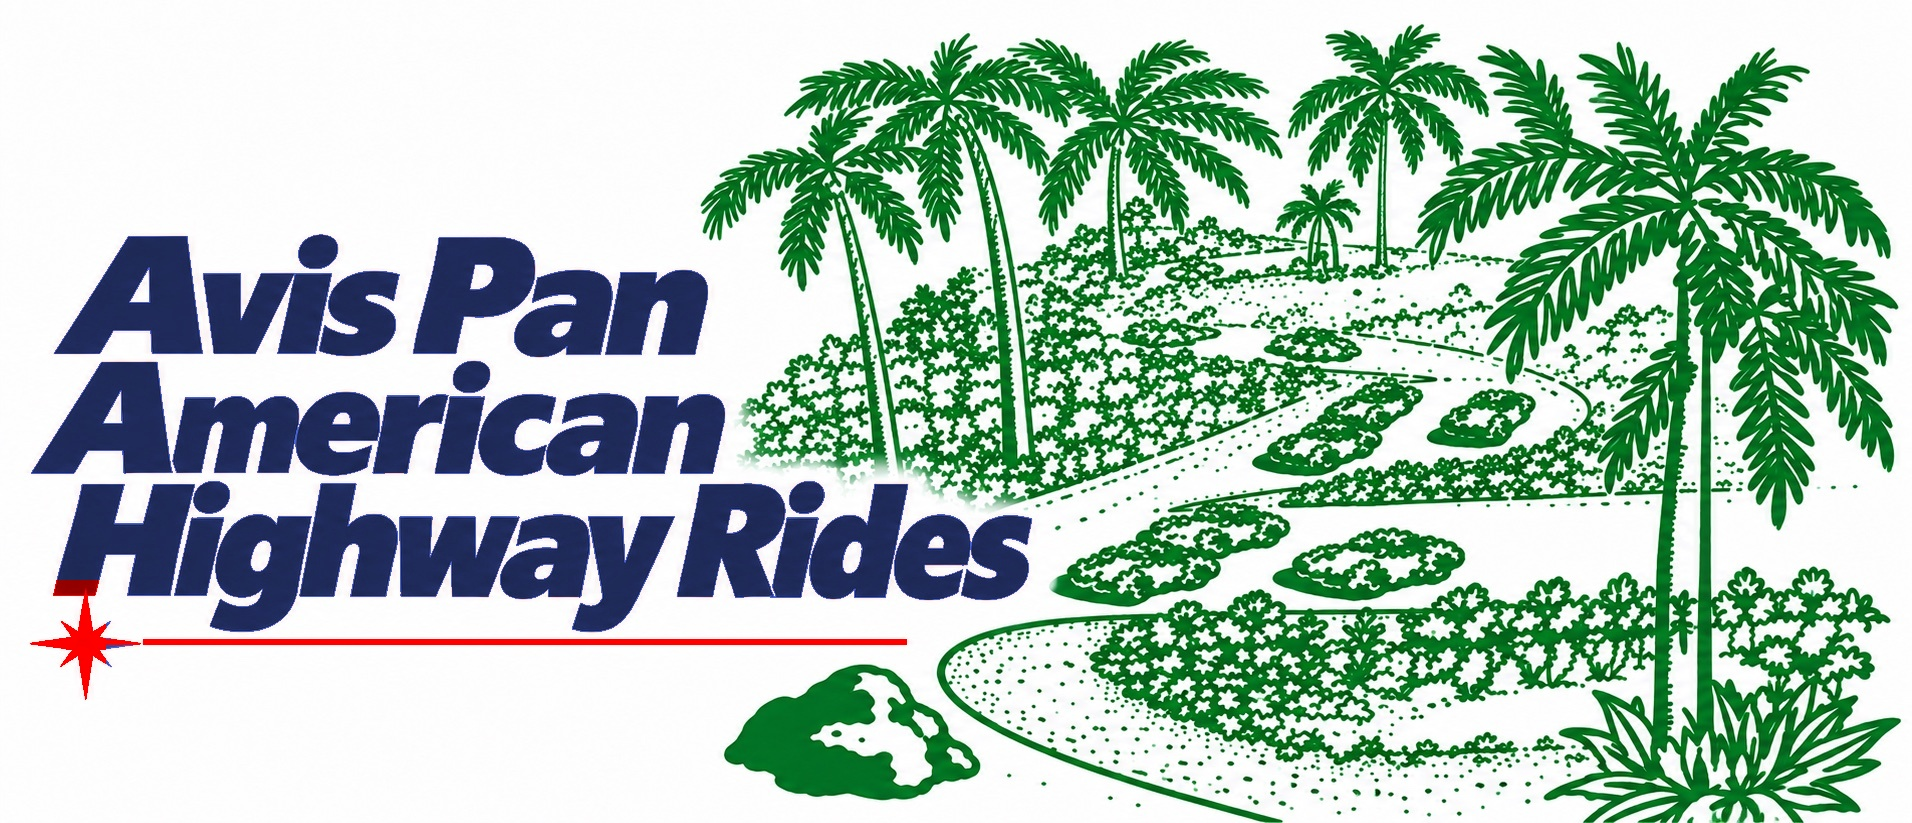
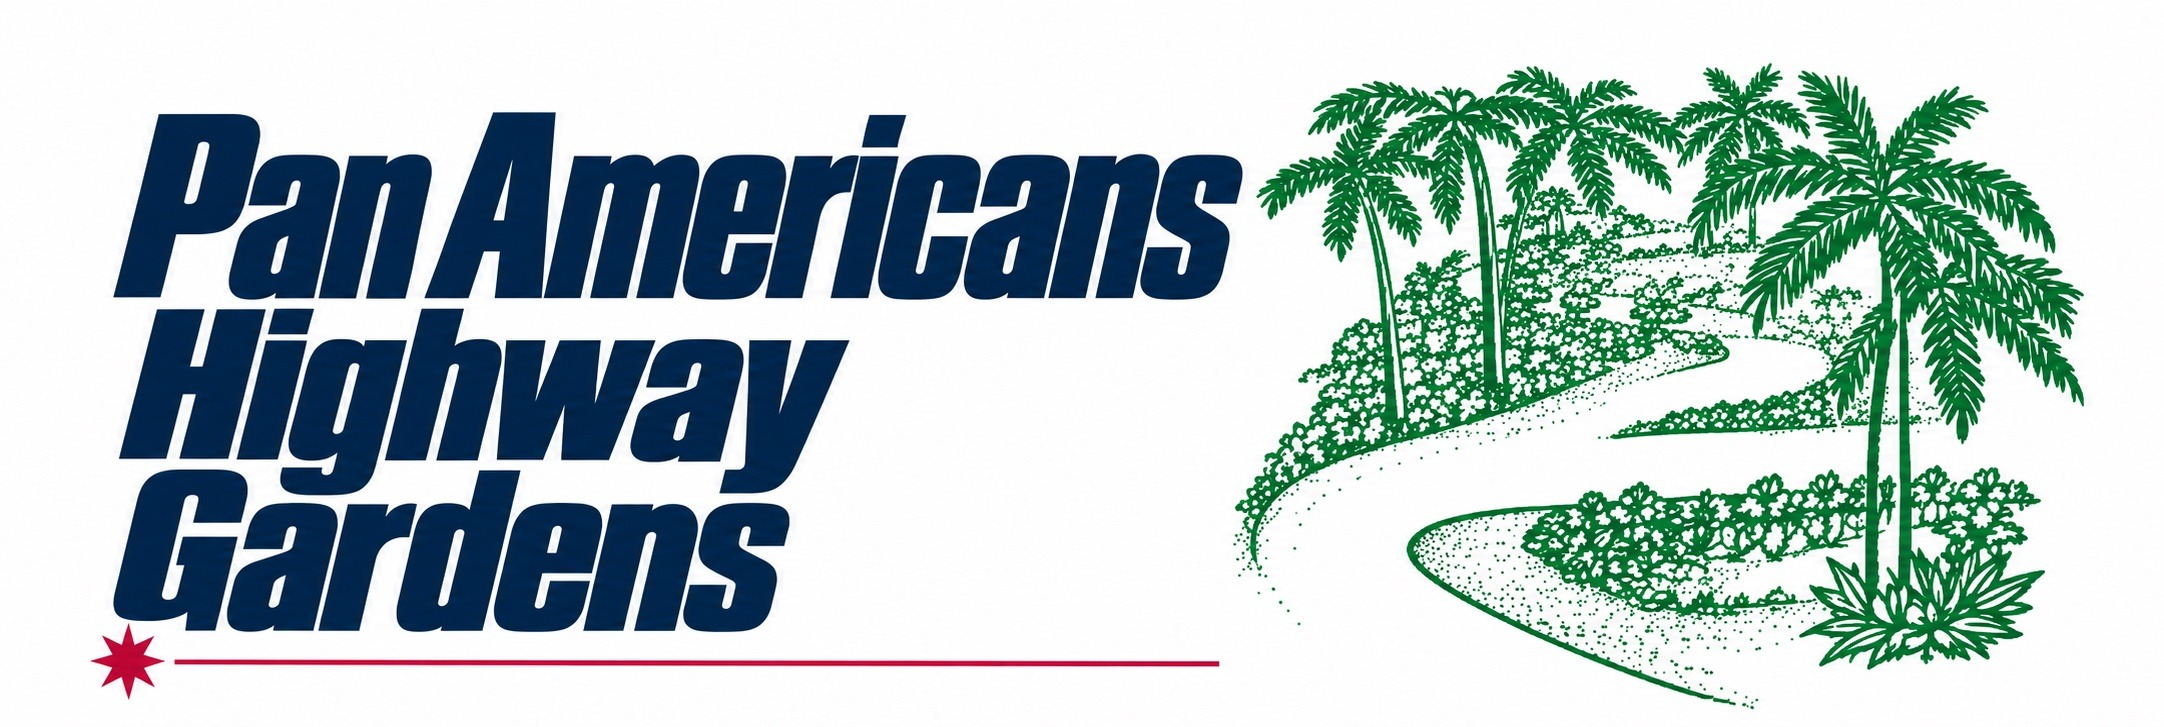
Add Pan American Highway Gardens overview, P card, and stubs
Create panamgoverview from the overview prototype with hero, body
copy, photo, and AttractionNav menu (Overview first). Add panama01–03
landing stubs and a P-page link card.

diff --git a/src/app/panamgoverview/page.tsx b/src/app/panamgoverview/page.tsx
@@ -7,28 +7,25 @@ import heroBottomBar from "@/styles/heroBottomBar.module.css";
 import overviewHeroStyles from "@/styles/overviewPageHero.module.css";
 
 export const metadata: Metadata = {
-  title: "Avis Pan American Highway Rides — Overview — nywf64.com",
+  title: "Pan American Highway Gardens — Overview — nywf64.com",
   description:
-    "Avis Pan American Highway Rides overview at the 1964/1965 New York World’s Fair — Attractions from A to Z on nywf64.com.",
+    "Pan American Highway Gardens overview at the 1964/1965 New York World’s Fair — Attractions from A to Z on nywf64.com.",
 };
 
 /**
- * Avis Pan American Highway Rides overview — follows the **overview** prototype
- * (same stack as /avisoverview / /autthroverview).
+ * Pan American Highway Gardens overview — follows the **overview** prototype
+ * (same stack as /alaskaoverview / /pakistoverview).
  */
 export default function PanamgOverviewPage() {
   return (
     <>
-      <section
-        className={styles.hero}
-        aria-label="Avis Pan American Highway Rides"
-      >
+      <section className={styles.hero} aria-label="Pan American Highway Gardens">
         <div className={`${overviewHeroStyles.frame} ${heroBottomBar.photoFrame}`}>
           <Image
             src="/images/panamgoverview/hero-banner.jpg"
-            alt="Avis Pan American Highway Rides at the 1964/1965 New York World’s Fair"
-            width={1912}
-            height={823}
+            alt="Pan American Highway Gardens at the 1964/1965 New York World’s Fair"
+            width={2164}
+            height={727}
             priority
             sizes="100vw"
             className={overviewHeroStyles.art}
@@ -41,23 +38,23 @@ export default function PanamgOverviewPage() {
 
       <section
         className={styles.overview}
-        aria-label="Avis Pan American Highway Rides overview"
+        aria-label="Pan American Highway Gardens overview"
       >
         <div className={styles.overviewInner}>
           <div className={styles.copy}>
             <p className={styles.sectionTitle}>OVERVIEW</p>
             <p className={styles.body}>
-              Visitors drive miniature cars along a &quot;transcontinental&quot;
-              road.
+              Fairgoers stroll past large paintings of scenes along the new Pan
+              American Highway through Latin America.
             </p>
           </div>
 
           <div className={styles.photoWrap}>
             <Image
               src="/images/panamgoverview/photo.jpg"
-              alt="Avis Pan American Highway Rides"
-              width={958}
-              height={776}
+              alt="Pan American Highway Gardens at the 1964/1965 New York World’s Fair"
+              width={1518}
+              height={1036}
               sizes="(max-width: 720px) 100vw, 48vw"
               className={styles.photo}
               unoptimized
@@ -69,7 +66,7 @@ export default function PanamgOverviewPage() {
       <Nav2Bar
         previousHref="/panamgoverview"
         overviewHref="/panamgoverview"
-        nextHref="/panamg01"
+        nextHref="/panama01"
       />
     </>
   );

diff --git a/src/components/PanamgTopicStub.tsx b/src/components/PanamgTopicStub.tsx
@@ -2,7 +2,7 @@ import Link from "next/link";
 import { PanamgNavChrome } from "@/components/PanamgNavChrome";
 import { Nav2Bar } from "@/components/Nav2Bar";
 
-/** Shared stub shell for panamg (Panama menu) topic landings. */
+/** Shared stub shell for panamg / panama menu topic landings. */
 export function PanamgTopicStub({ title }: { title: string }) {
   return (
     <>
@@ -17,21 +17,21 @@ export function PanamgTopicStub({ title }: { title: string }) {
       >
         <p style={{ margin: "0 0 1rem", fontSize: "0.9rem" }}>
           <Link href="/panamgoverview" style={{ color: "#990000" }}>
-            ← Avis Pan American Highway Rides overview
+            ← Pan American Highway Gardens overview
           </Link>
         </p>
         <h1 style={{ margin: 0, color: "#26346e", fontSize: "1.75rem" }}>
           {title}
         </h1>
         <p style={{ margin: "1rem 0 0", color: "#26346e", lineHeight: 1.5 }}>
-          Placeholder page — full Avis Pan American Highway Rides content will
+          Placeholder page — full Pan American Highway Gardens content will
           connect here.
         </p>
       </main>
       <Nav2Bar
         previousHref="/panamgoverview"
         overviewHref="/panamgoverview"
-        nextHref="/panamg01"
+        nextHref="/panama01"
       />
     </>
   );

diff --git a/src/data/panamgMenu.ts b/src/data/panamgMenu.ts
@@ -1,9 +1,9 @@
 import type { AttractionTopic } from "@/components/AttractionTopicsMenu";
 
 /**
- * Panama menu — nav-menu topics for all routes beginning with `panamg`.
- * Labels match the panama-menu-topics mockup; Overview at top.
- * Non-Overview routes: `panamg01`…`panamg03`.
+ * Pan American Highway Gardens menu — topics for `panamg*` / `panama*` routes.
+ * Labels match the panamg menu-topics mockup; Overview at top.
+ * Non-Overview routes: `panama01`…`panama03`.
  */
 export const PANAMG_MENU_TOPICS: AttractionTopic[] = [
   {
@@ -12,14 +12,14 @@ export const PANAMG_MENU_TOPICS: AttractionTopic[] = [
   },
   {
     label: "1964 & 1965 Official Guidebook & Souvenir Map",
-    href: "/panamg01",
+    href: "/panama01",
   },
   {
     label: "World's Fair Information Manual",
-    href: "/panamg02",
+    href: "/panama02",
   },
   {
     label: "Photograph Album",
-    href: "/panamg03",
+    href: "/panama03",
   },
 ];

diff --git a/src/components/PanamgNavChrome.tsx b/src/components/PanamgNavChrome.tsx
@@ -4,14 +4,14 @@ import { AttractionNavChrome } from "@/components/AttractionNavChrome";
 import { PANAMG_MENU_TOPICS } from "@/data/panamgMenu";
 
 /**
- * Panama menu chrome — nav bar (**AVIS PAN AMERICAN HIGHWAY RIDES**) + Panama menu.
- * Use on every page whose route begins with `panamg`.
+ * Pan American Highway Gardens menu chrome — nav bar + shared menu.
+ * Use on `panamgoverview` and `panama01`…`panama03`.
  */
 export function PanamgNavChrome() {
   return (
     <AttractionNavChrome
       topics={PANAMG_MENU_TOPICS}
-      navLabel="Avis Pan American Highway Rides"
+      navLabel="Pan American Highway Gardens"
     />
   );
 }

diff --git a/src/data/pCards.ts b/src/data/pCards.ts
@@ -17,4 +17,15 @@ const PAKISTAN: PCard = {
   pavilionAlt: "Pakistan",
 };
 
-export const P_CARDS: PCard[] = [PAKISTAN];
+const PAN_AMERICAN_HIGHWAY_GARDENS: PCard = {
+  id: "panamg",
+  href: "/panamgoverview",
+  title: "Pan American Highway Gardens",
+  body: "Fairgoers stroll past large paintings of scenes along the new Pan American Highway through Latin America.",
+  pavilionSrc: "/images/panamg/panamg-icon.png",
+  pavilionWidth: 866,
+  pavilionHeight: 291,
+  pavilionAlt: "Pan American Highway Gardens",
+};
+
+export const P_CARDS: PCard[] = [PAKISTAN, PAN_AMERICAN_HIGHWAY_GARDENS];

diff --git a/src/app/panama01/page.tsx b/src/app/panama01/page.tsx
@@ -1,0 +1,17 @@
+import type { Metadata } from "next";
+import { PanamgTopicStub } from "@/components/PanamgTopicStub";
+
+export const metadata: Metadata = {
+  title:
+    "1964 & 1965 Official Guidebook & Souvenir Map — Pan American Highway Gardens — nywf64.com",
+  description:
+    "1964 & 1965 Official Guidebook & Souvenir Map — Pan American Highway Gardens at the 1964/1965 New York World’s Fair on nywf64.com.",
+};
+
+export default function Page() {
+  return (
+    <PanamgTopicStub
+      title={"1964 & 1965 Official Guidebook & Souvenir Map"}
+    />
+  );
+}

diff --git a/src/app/panamgoverview/panamgoverview.module.css b/src/app/panamgoverview/panamgoverview.module.css
@@ -1,4 +1,4 @@
-/* Avis Pan American Highway Rides overview — same layout as overview prototype */
+/* Pan American Highway Gardens overview — same layout as overview prototype */
 
 .hero {
   position: relative;
@@ -68,9 +68,7 @@
   line-height: 0;
   border: 1px solid #0a0a0a;
   background: #fff;
-  /* Thin outer frame; asset already carries a 2px black line border. */
-  /* Match isolated photo (958×776) — no black letterbox. */
-  aspect-ratio: 958 / 776;
+  aspect-ratio: 1518 / 1036;
   overflow: hidden;
 }
 

diff --git a/src/app/panama02/page.tsx b/src/app/panama02/page.tsx
@@ -1,0 +1,13 @@
+import type { Metadata } from "next";
+import { PanamgTopicStub } from "@/components/PanamgTopicStub";
+
+export const metadata: Metadata = {
+  title:
+    "World's Fair Information Manual — Pan American Highway Gardens — nywf64.com",
+  description:
+    "World's Fair Information Manual — Pan American Highway Gardens at the 1964/1965 New York World’s Fair on nywf64.com.",
+};
+
+export default function Page() {
+  return <PanamgTopicStub title={"World's Fair Information Manual"} />;
+}

diff --git a/src/app/panama03/page.tsx b/src/app/panama03/page.tsx
@@ -1,0 +1,13 @@
+import type { Metadata } from "next";
+import { PanamgTopicStub } from "@/components/PanamgTopicStub";
+
+export const metadata: Metadata = {
+  title:
+    "Photograph Album — Pan American Highway Gardens — nywf64.com",
+  description:
+    "Photograph Album — Pan American Highway Gardens at the 1964/1965 New York World’s Fair on nywf64.com.",
+};
+
+export default function Page() {
+  return <PanamgTopicStub title={"Photograph Album"} />;
+}
